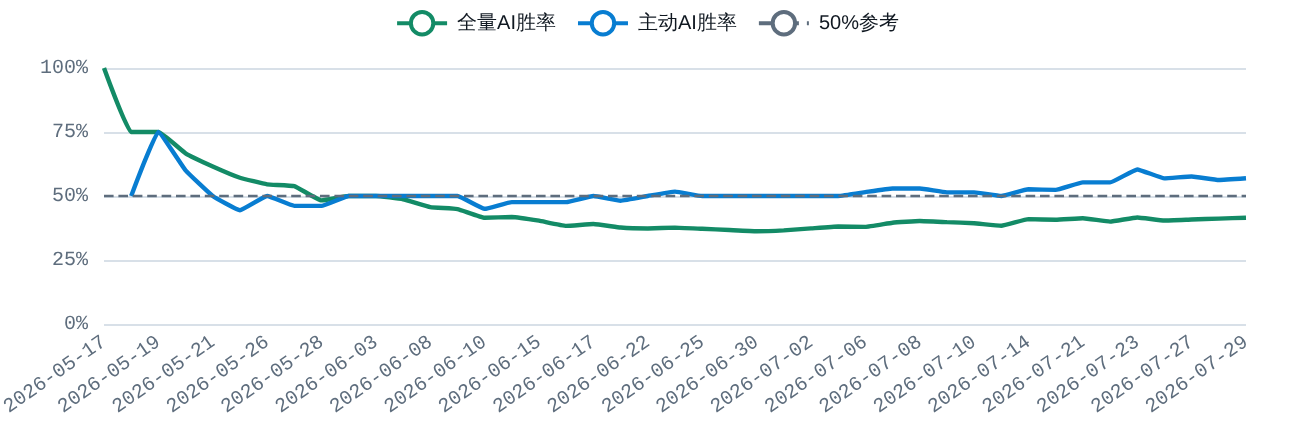
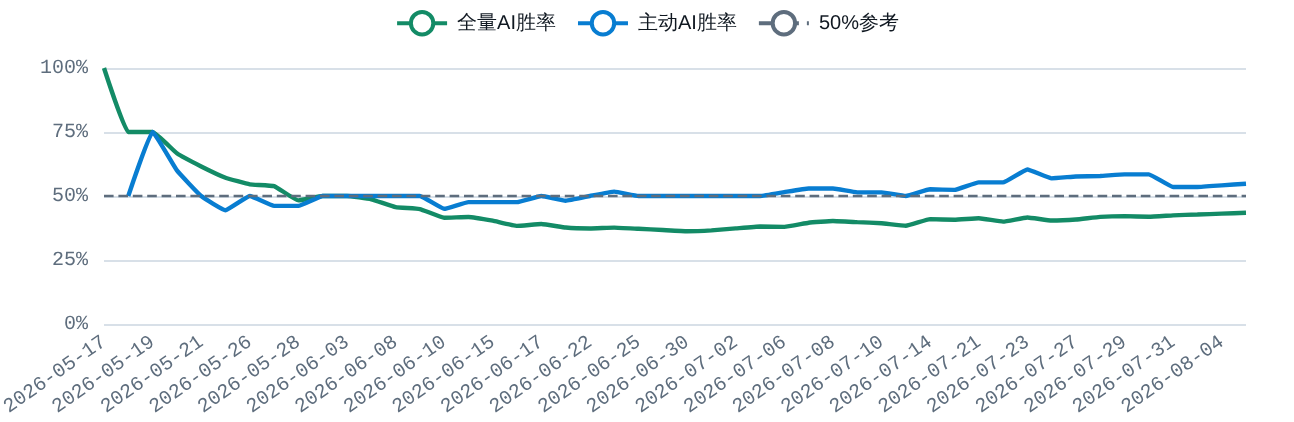
docs: regenerate product-first growth assets (#396)
## Outcome

Regenerates the public growth surface from the final live UI and makes
every first-share claim match the portable product boundary.

- New 1280x640 social card leads with installable decision intelligence
and keeps the real dashboard as proof.
- New 72-frame dashboard GIF captures all six current tabs.
- Fresh Reflect win-rate image.
- Product-first title, description, OpenGraph, Twitter, JSON-LD,
no-script copy, and Jekyll defaults.
- English and Chinese README social alt text remain in parity.
- No unsupported traffic, directory, PyPI, or performance claim.

## Visual verification

- Social card inspected at original resolution: no text or screenshot
overflow.
- `assets/social-card.png`: 1280x640, 396,222 bytes.
- `assets/dashboard.gif`: 640x1376, 72 decoded frames, 7,607,658 bytes.
- `assets/shadow-backtest.png`: 1294x422, 59,400 bytes.

## Checks

- Screenshot decoder: pass.
- GIF full decode: pass.
- Focused media, README parity, and Pages contract tests: 19 passed.
- `git diff --check`: pass.

Advances #383. Lighthouse will be recorded against the deployed URL
after merge, not guessed from a branch artifact.

Changed region(s): [[0.0309, 0.8009, 0.9583, 0.9858], [0.0927, 0.2773, 0.9892, 0.5545]]

diff --git a/index.html b/index.html
@@ -9,31 +9,38 @@ layout: null
 <meta name="viewport" content="width=device-width, initial-scale=1, viewport-fit=cover">
 <meta name="theme-color" content="#070A0F" media="(prefers-color-scheme: dark)">
 <meta name="theme-color" content="#F3F6F9" media="(prefers-color-scheme: light)">
-<title>clawock — autonomous AI that debates &amp; grades its own stock picks (HK + US)</title>
-<meta name="description" content="Multi-agent LLM analysis on a real HK + US stock portfolio: a daily bull-vs-bear debate, hard risk gates, and a scorecard that grades the AI's own calls and publishes the result unedited. Live dashboard, fully autonomous.">
+<title>clawock — investment decision workflows for AI agents</title>
+<meta name="description" content="Install evidence-linked investment decision workflows into OpenClaw, Claude Code, Codex, and other agents. Reconcile money and outcomes, with a live HK + US proof.">
 <!-- link-share preview card (WeChat / Telegram / iMessage) -->
-<meta property="og:title" content="clawock — autonomous AI that grades its own stock picks">
-<meta property="og:description" content="A daily bull-vs-bear debate on a real HK + US portfolio, hard risk gates, and a scorecard that publishes the AI's own record unedited. 多空辩论 · 风控硬闸 · 自评战绩 · 全自动。">
+<meta property="og:title" content="Decision workflows for any AI agent — clawock">
+<meta property="og:description" content="Evidence, opposition, deterministic reconciliation, and outcome-linked improvement — proven on a live HK + US investment desk.">
 <meta property="og:type" content="website">
+<meta property="og:site_name" content="clawock">
+<meta property="og:locale" content="en_US">
 <meta property="og:url" content="https://kcnyu.github.io/clawock/">
 <meta property="og:image" content="https://kcnyu.github.io/clawock/assets/social-card.png">
 <meta property="og:image:width" content="1280">
 <meta property="og:image:height" content="640">
+<meta property="og:image:alt" content="clawock installs portable investment decision workflows into external AI agents and proves them on a live HK and US desk">
 <link rel="canonical" href="https://kcnyu.github.io/clawock/">
 <meta name="twitter:card" content="summary_large_image">
-<meta name="twitter:title" content="clawock — autonomous AI that grades its own stock picks">
-<meta name="twitter:description" content="A daily bull-vs-bear debate on a real HK + US portfolio, hard risk gates, and a scorecard that publishes the AI's own record unedited.">
+<meta name="twitter:title" content="Decision workflows for any AI agent — clawock">
+<meta name="twitter:description" content="Evidence, opposition, deterministic reconciliation, and outcome-linked improvement — proven on a live HK + US investment desk.">
 <meta name="twitter:image" content="https://kcnyu.github.io/clawock/assets/social-card.png">
+<meta name="twitter:image:alt" content="clawock decision-workflow plugin architecture with a live investment dashboard proof">
 <script type="application/ld+json">
 {
   "@context": "https://schema.org",
-  "@type": "WebApplication",
+  "@type": "SoftwareApplication",
   "name": "clawock",
   "url": "https://kcnyu.github.io/clawock/",
-  "applicationCategory": "FinanceApplication",
-  "operatingSystem": "Web",
+  "applicationCategory": "BusinessApplication",
+  "operatingSystem": "Any",
   "inLanguage": ["en", "zh-CN"],
-  "description": "Multi-agent LLM analysis on a real HK + US stock portfolio: a daily bull-vs-bear debate, hard risk gates, and a scorecard that grades the AI's own calls and publishes the result unedited.",
+  "description": "An agent-native investment decision-workflow plugin kit with evidence, opposing cases, deterministic financial reconciliation, outcome evaluation, and bounded improvement.",
+  "codeRepository": "https://github.com/KCNyu/clawock",
+  "isAccessibleForFree": true,
+  "featureList": ["Portable Agent Skills", "Evidence-linked opposing cases", "Deterministic money and FX reconciliation", "Outcome-linked bounded improvement"],
   "offers": { "@type": "Offer", "price": "0", "priceCurrency": "USD" },
   "author": { "@type": "Person", "name": "kcn", "url": "https://github.com/KCNyu" }
 }
@@ -77,8 +84,8 @@ layout: null
 </head>
 <body>
 <noscript><div style="padding: var(--space-4);max-width:680px;margin:0 auto;color:var(--text-secondary);font-size:13px;line-height:1.6">
-  <p><strong>clawock</strong> is a fully autonomous, multi-agent LLM analyst running on a real Hong Kong + US stock portfolio. Every morning it stages a bull-vs-bear debate, enforces hard risk gates (concentration, leverage, beta, stop-loss), and keeps a public scorecard that grades the AI's own calls and publishes the result unedited.</p>
-  <p>clawock 是一个全自动多智能体投研系统，跑在真实的港股 + 美股组合上：每早多空辩论、风控硬闸、公开给自己打分，数字难看也不改。</p>
+  <p><strong>clawock</strong> installs portable investment decision workflows into external AI agents. OpenClaw, Claude Code, Codex, or another runtime keeps its model, conversation, memory, and tools; clawock supplies evidence and opposition contracts, deterministic financial reconciliation, outcome evaluation, and reviewable improvement.</p>
+  <p>clawock 把可迁移的投资决策 workflow 装进外部 Agent：runtime 保留模型、对话、记忆和工具，clawock 负责证据与反方契约、确定性资金对账、结果评估和可审改进。这一页展示真实港股 + 美股实例。</p>
   <p>This dashboard renders with JavaScript · raw data: <a href="assets/data/dashboard.json" style="color:var(--accent)">dashboard.json</a> · source: <a href="https://github.com/KCNyu/clawock" style="color:var(--accent)">github.com/KCNyu/clawock</a></p>
 </div></noscript>
 

diff --git a/scripts/data/shoot_dashboard.js b/scripts/data/shoot_dashboard.js
@@ -215,9 +215,9 @@ function socialCardHTML(shotDataUri) {
   }
   .sub { font-size:18px; line-height:1.5; color:#5f6d79; font-weight:500; max-width:452px; }
   .sub b { color:#1e2831; font-weight:750; }
-  .proof { display:flex; align-items:center; gap:12px; margin-top:30px;
-    color:#4c5d6b; font:800 12px/1 ui-monospace,SFMono-Regular,Menlo,monospace;
-    letter-spacing:.14em; }
+  .proof { display:flex; align-items:center; gap:9px; margin-top:28px;
+    color:#4c5d6b; font:800 11px/1 ui-monospace,SFMono-Regular,Menlo,monospace;
+    letter-spacing:.1em; }
   .proof i { width:22px; height:1px; background:linear-gradient(90deg,#aeb9c3,#6ea0c6); }
   .repo { position:absolute; left:72px; bottom:38px; font-size:17px; font-weight:700;
     color:#334653; display:flex; align-items:center; gap:11px; }
@@ -247,10 +247,10 @@ function socialCardHTML(shotDataUri) {
       ${BRAND_MARK_SVG}
       <span class="name">clawock</span>
     </div>
-    <div class="eyebrow">AUTONOMOUS · MULTI-AGENT · REAL MONEY</div>
-    <h1>AI agents debate.<br><span class="hl">Code controls the risk.</span></h1>
-    <div class="sub">A real <b>HK + US portfolio</b>, where every call is settled on a public scorecard and <b>published unedited.</b></div>
-    <div class="proof"><span>DEBATE</span><i></i><span>GATE</span><i></i><span>GRADE</span></div>
+    <div class="eyebrow">DECISION WORKFLOWS · ANY AGENT · LIVE PROOF</div>
+    <h1>Install decision<br><span class="hl">intelligence into<br>any agent.</span></h1>
+    <div class="sub">Portable <b>evidence + opposition</b>, deterministic reconciliation, and outcome-linked improvement — proven on a real <b>HK + US desk.</b></div>
+    <div class="proof"><span>EVIDENCE</span><i></i><span>OPPOSE</span><i></i><span>RECONCILE</span><i></i><span>IMPROVE</span></div>
     <div class="repo">github.com/KCNyu/clawock</div>
   </div>
   <div class="shot"><div class="bar"><i></i><i></i><i></i><span class="address"></span></div><img src="${shotDataUri}" alt=""></div>

diff --git a/README.md b/README.md
@@ -17,7 +17,7 @@ Install the decision intelligence behind this live Hong Kong + US desk into any 
 <br>
 
 <a href="https://kcnyu.github.io/clawock/">
-  <img src="assets/social-card.png" alt="clawock — an autonomous AI trading desk that grades its own calls" width="820">
+  <img src="assets/social-card.png" alt="clawock — portable investment decision workflows for any external AI agent, proven on a live HK and US desk" width="820">
 </a>
 
 <sub><i>“The market doesn't care how confident the model was.”</i></sub>

diff --git a/README.zh.md b/README.zh.md
@@ -17,7 +17,7 @@
 <br>
 
 <a href="https://kcnyu.github.io/clawock/">
-  <img src="assets/social-card.png" alt="clawock — 会给自己打分的自主 AI 投研台" width="820">
+  <img src="assets/social-card.png" alt="clawock —— 装进任意外部 Agent 的可迁移投资决策 workflow，并由真实港美股投研台持续验证" width="820">
 </a>
 
 <sub><i>“市场不在乎模型有多自信。”</i></sub>
